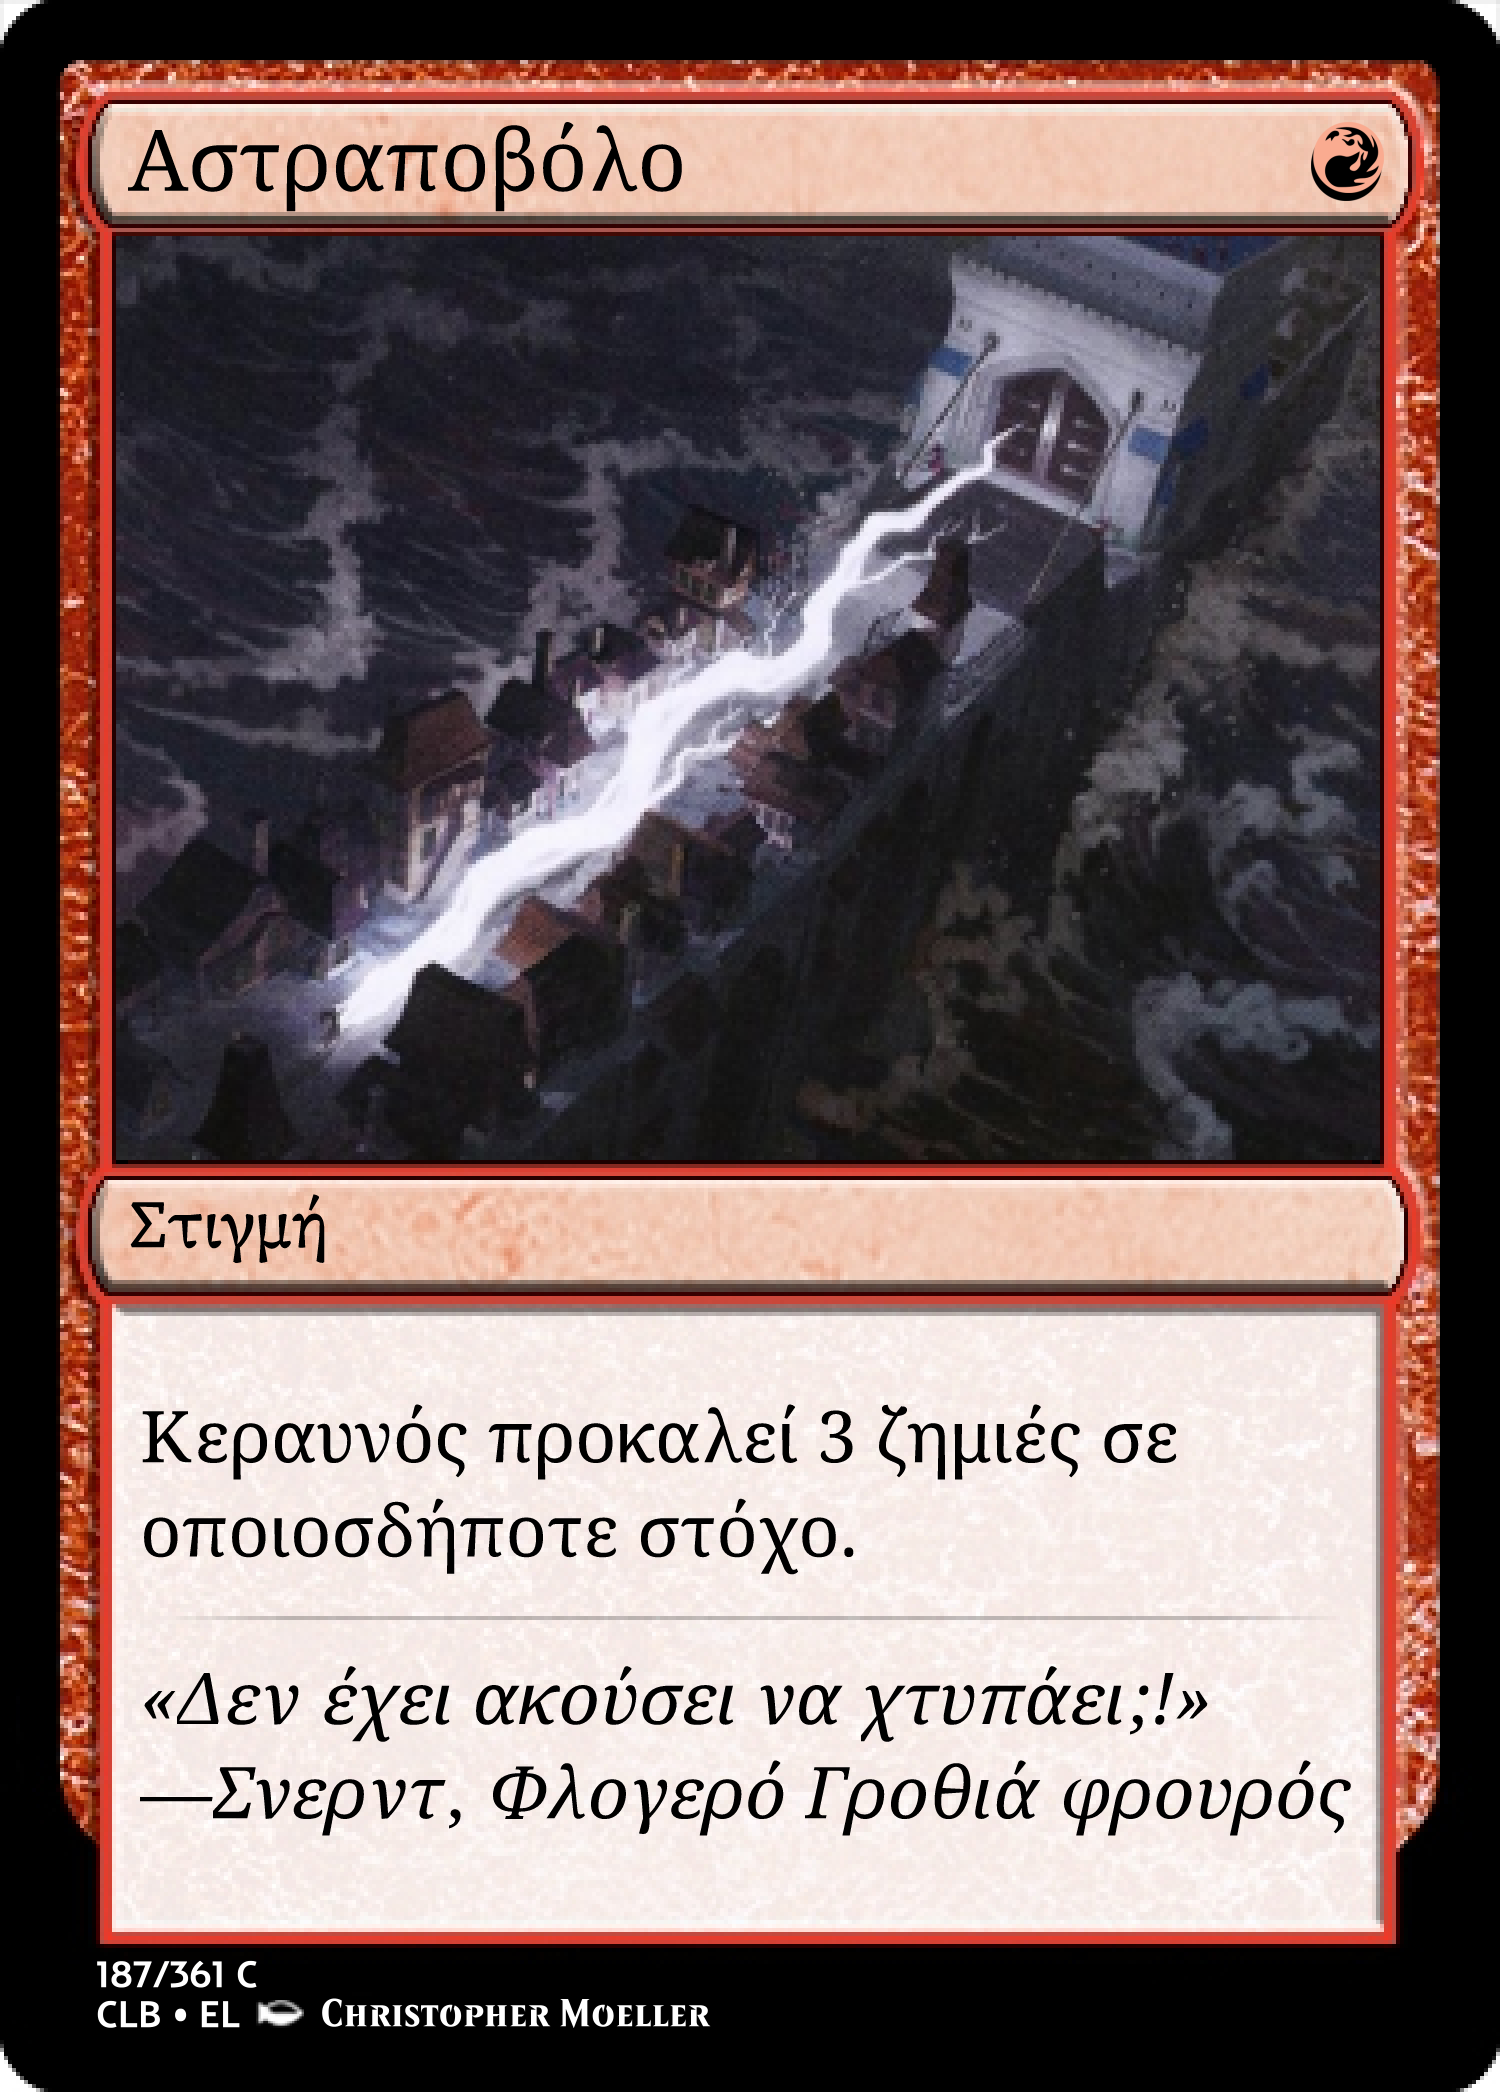
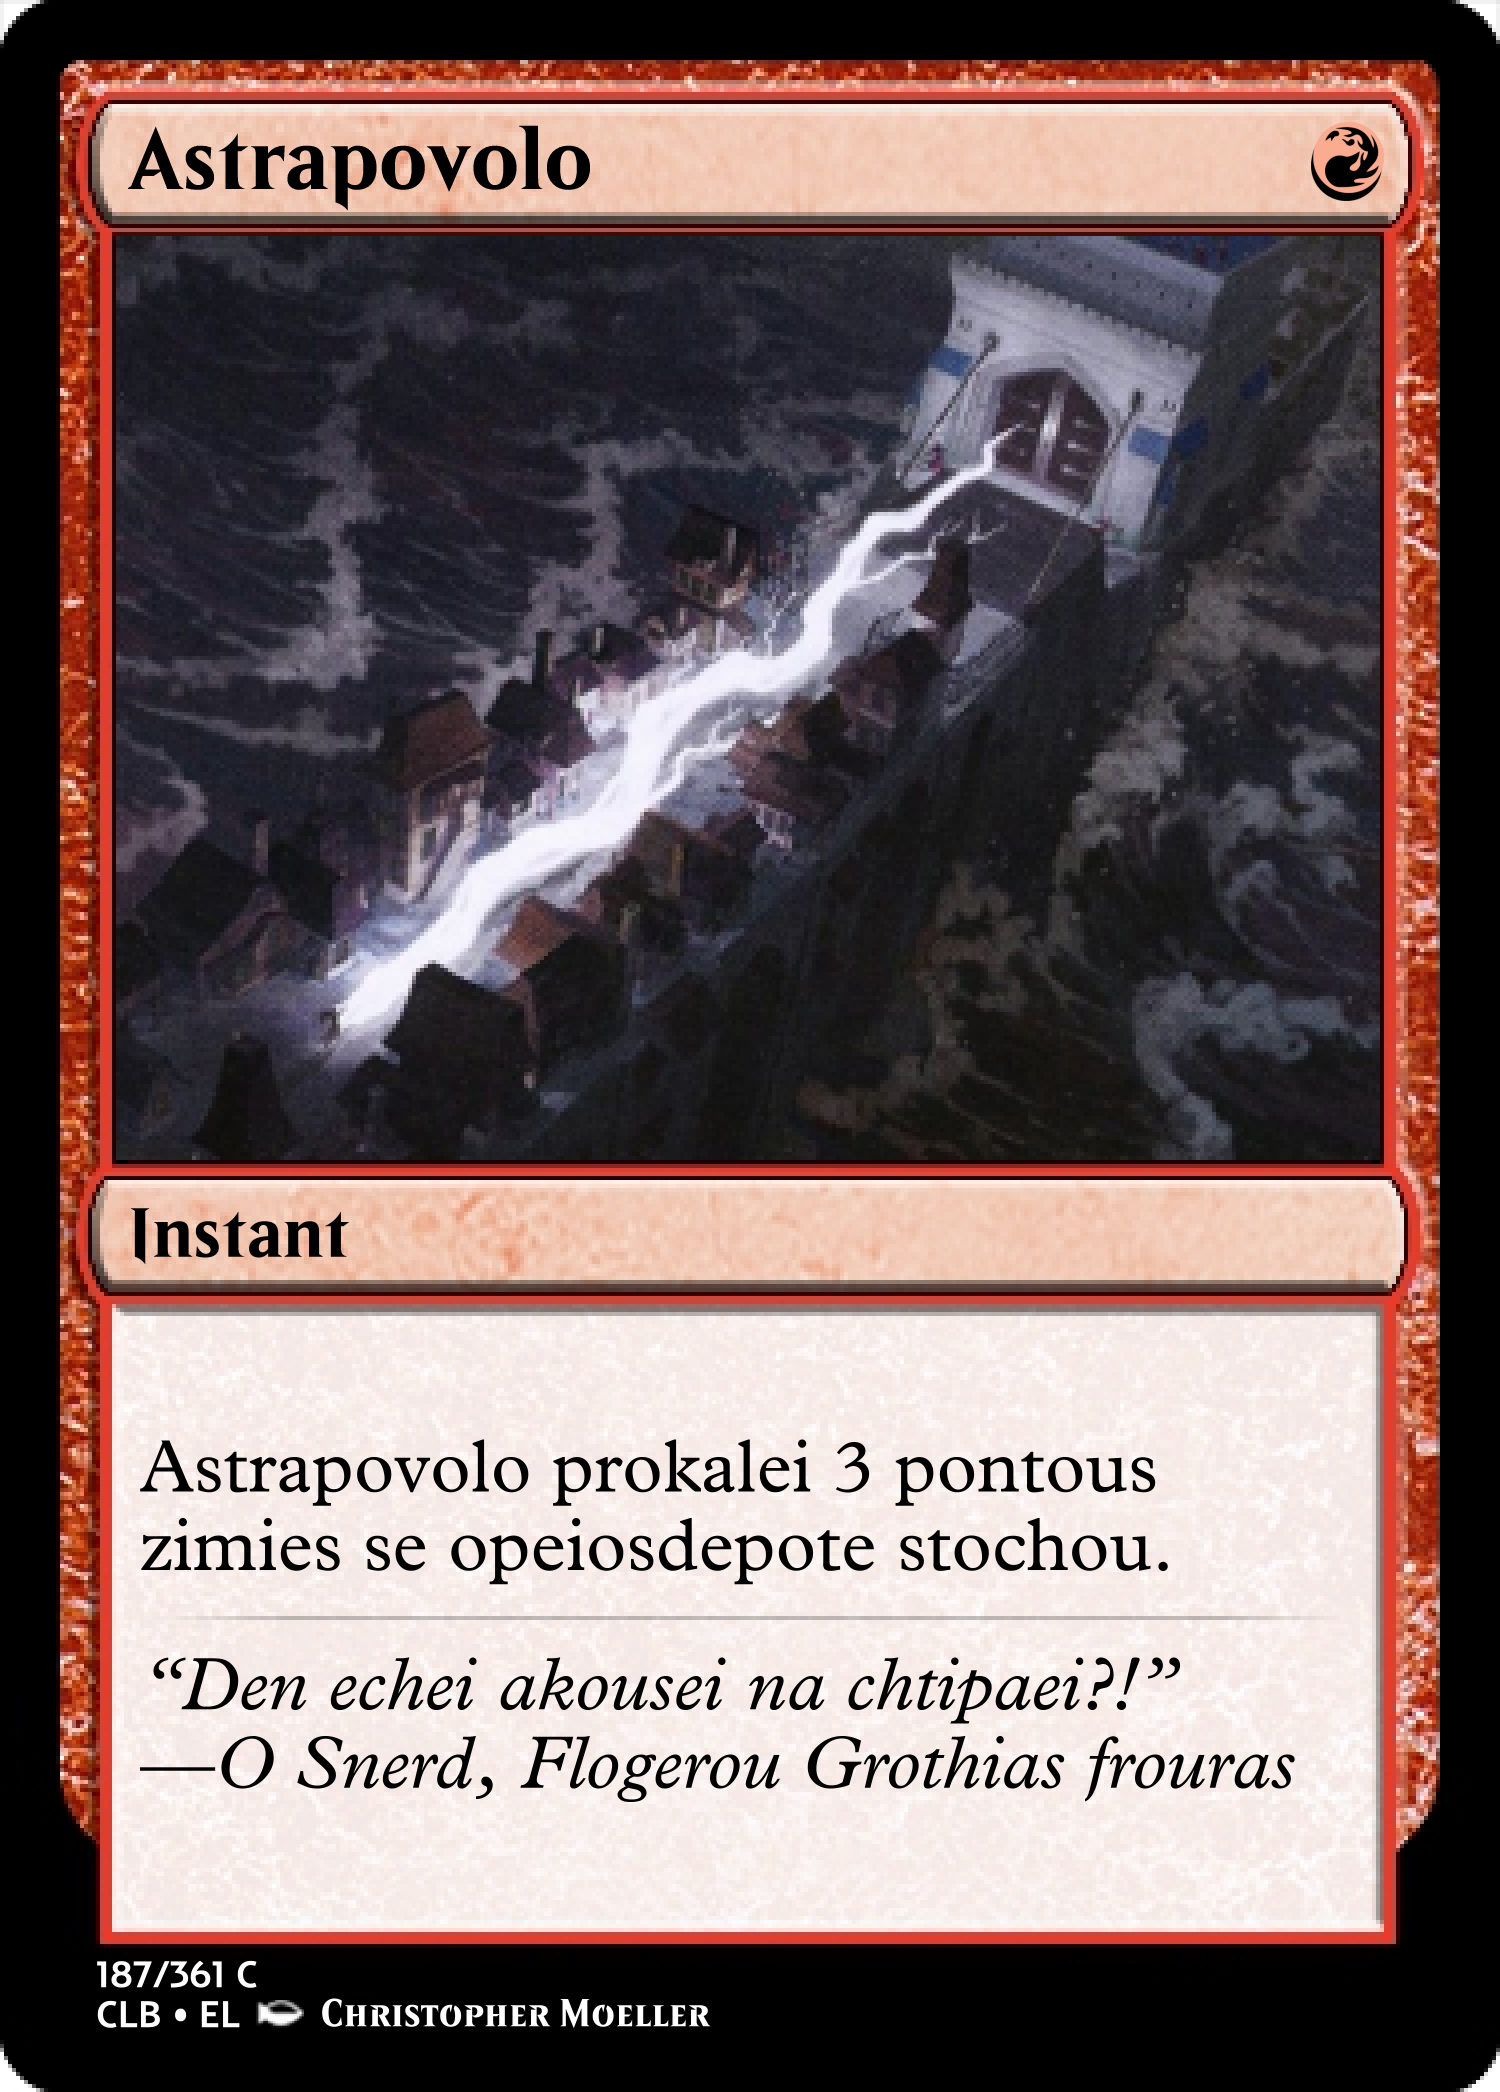
lightning bolt greek

diff --git a/greek/cards/Lightning Bolt.html b/greek/cards/Lightning Bolt.html
@@ -1,0 +1,112 @@
+<!doctype html>
+<html>
+	<head>
+		<link href="https://cdn.jsdelivr.net/npm/bootstrap@5.3.2/dist/css/bootstrap.min.css" rel="stylesheet" integrity="sha384-T3c6CoIi6uLrA9TneNEoa7RxnatzjcDSCmG1MXxSR1GAsXEV/Dwwykc2MPK8M2HN" crossorigin="anonymous">
+		<script src="https://cdn.jsdelivr.net/npm/bootstrap@5.3.2/dist/js/bootstrap.bundle.min.js" integrity="sha384-C6RzsynM9kWDrMNeT87bh95OGNyZPhcTNXj1NW7RuBCsyN/o0jlpcV8Qyq46cDfL" crossorigin="anonymous"></script>
+		<script src="https://code.jquery.com/jquery-3.7.1.min.js"></script>
+		<script src="https://cdnjs.cloudflare.com/ajax/libs/seedrandom/3.0.5/seedrandom.min.js">
+		</script> 
+		<link href="https://cdn.jsdelivr.net/npm/mana-font@latest/css/mana.css" rel="stylesheet" type="text/css" />
+		
+		<link rel="icon" type="image/x-icon" href="../favicon.ico">
+		<link rel="stylesheet" href="../../lojban/style.css">
+		<script src="../data.js"></script>
+		<script>
+			const storyCode = "Lightning Bolt"
+		</script>
+		<script src="../../lojban/main.js" defer></script>
+
+		<title>Lightning Bolt</title>
+		<meta property="og:title" content="Lightning Bolt">
+		<meta property="og:description" content="">
+		<meta property="og:image" content="https://durple3f.github.io/lojban/images/Lightning%20Bolt%203.png">
+	</head>
+	<body>
+		<a href="../index.html" id="back-btn">
+			<button class="btn btn-secondary">Back</button>
+		</a>
+		<div id="draggable">=</div>
+		<div id="explanation-container">
+			<div id="explanation">
+				<div id="explanation-text"></div>
+				<button class="btn btn-secondary show-all" style="display: none;">Show all</button>
+			</div>
+		</div>
+		<div id="views">
+			<div class="row text-center fw-bold">
+				<div class="col">
+					English <button class="toggle-btn">(Hide)</button>
+				</div>
+				<div class="col">
+					Literal Translation <button class="toggle-btn">(Hide)</button>
+				</div>
+				<div class="col">
+					Romanized <button class="toggle-btn">(Hide)</button>
+				</div>
+				<div class="col">
+					Greek <button class="toggle-btn">(Hide)</button>
+				</div>
+			</div>
+			<div class="row">
+				<div class="col">
+					<span class="f1"><span class="f2">Lightning</span> <span class="f3">Bolt</span></span>
+				</div>
+				<div class="col">
+					<span class="f1"><span class="f2">Lightning</span>-<span class="f3">Shot</span></span>
+				</div>
+				<div class="col">
+					<span class="f1"><span class="f2">Astrapo</span><span class="f3">volo</span></span>
+				</div>
+				<div class="col">
+					<span class="f1"><span class="f2">Αστραπο</span><span class="f3">βόλο</span></span>
+				</div>
+			</div>
+			<div class="row">
+				<div class="col">
+					<span class="f1">Lightning Bolt</span> <span class="f4">deals</span> 3 <span class="f5">damage</span> <span class="f6">to</span> <span class="f7">any</span> <span class="f8">target</span>.
+				</div>
+				<div class="col">
+					<span class="f1">Lightning-Shot</span> <span class="f4">causes</span> 3 <span class="f20">points</span> <span class="f5">damage</span> <span class="f6">to</span> <span class="f7">whatever</span> <span class="f8">target</span>.
+				</div>
+				<div class="col">
+					<span class="f1">Astrapovolo</span> <span class="f4">prokalei</span> 3 <span class="f20">pontous</span> <span class="f5">zimies</span> <span class="f6">se</span> <span class="f7">opeiosdepote</span> <span class="f8">stochou</span>.
+				</div>
+				<div class="col">
+					<span class="f1">Αστραποβόλο</span> <span class="f4">προκαλεί</span> 3 <span class="f20">πόντους</span> <span class="f5">ζημιάς</span> <span class="f6">σε</span> <span class="f7">οποιοσδήποτε</span> <span class="f8">στόχου</span>.
+				</div>
+			</div>
+			<div class="row">
+				<div class="col">
+					“<span class="f10">Has</span><span class="f9">n’t</span> <span class="f10">she</span> <span class="f11">heard</span> <span class="f12">of</span> <span class="f13">knocking</span><span class="f14">?</span>!”<br>
+          —<span class="f16">Snerd</span>, <span class="f17">Flaming</span> <span class="f18">Fist</span> <span class="f19">guard</span>
+				</div>
+				<div class="col">
+					“<span class="f9">Not</span> <span class="f10">have they</span> <span class="f11">hear</span> <span class="f12">of</span> <span class="f13">knocking</span><span class="f14">?</span>!”<br>
+          —<span class="f16">Snernt</span>, <span class="f17">Flaming</span> <span class="f18">Fist</span> <span class="f19">guard</span>
+				</div>
+				<div class="col">
+					“<span class="f9">Den</span> <span class="f10">echei</span> <span class="f11">akousei</span> <span class="f12">na</span> <span class="f13">chtipaei</span><span class="f14">?</span>!”<br>
+          —<span class="f15">O</span> <span class="f16">Snerd</span>, <span class="f17">Flogerou</span> <span class="f18">Grothias</span> <span class="f19">frouras</span>
+				</div>
+				<div class="col">
+					«<span class="f9">Δεν</span> <span class="f10">έχει</span> <span class="f11">ακούσει</span> <span class="f12">να</span> <span class="f13">χτυπάει</span><span class="f14">;</span>!»<br>
+          —<span class="f15">Ο</span> <span class="f16">Σνερντ</span>, <span class="f17">Φλογερού</span> <span class="f18">Γροθιάς</span> <span class="f19">φρουράς</span>
+				</div>
+			</div>
+			<div class="row">
+				<div class="col">
+					<img class="mtg-card img-fluid" src="../images/Lightning Bolt 1.png">
+				</div>
+				<div class="col">
+					<img class="mtg-card img-fluid" src="../images/Lightning Bolt 2.png">
+				</div>
+				<div class="col">
+					<img class="mtg-card img-fluid" src="../images/Lightning Bolt 3.png">
+				</div>
+				<div class="col">
+					<img class="mtg-card img-fluid" src="../images/Lightning Bolt 4.png">
+				</div>
+			</div>
+		</div>
+	</body>
+</html>

diff --git a/greek/data.js b/greek/data.js
@@ -1,0 +1,27 @@
+const storyInfo = {
+	"general": {
+		
+	},
+	"Lightning Bolt": {
+		1: "Hey, would you say that naming a card like this is the subject or object of a sentence? What, you don't think this counts as a sentence? Wrong. Greek needs to know. It seems like this should be what they call the 'nominative' case, which is the most common one.",
+		2: "'Astrapí' here means lightning, or flash.",
+		3: "This is actually the same 'bolos' that 'bola' (the weapons that you throw) comes from.",
+		4: "This is a very general word, that could mean all sorts of causal things. I suppose you could also use a word for like 'give'? Isn't it weird how we use the word 'deal' in this context? Why do you give people damage?",
+		5: "I <i>think</i> damage is supposed to be singular here. I have no idea.",
+		6: "Se can mean damn near any kind of 'to' in Greek. In, on, to, at, most conjunctions.",
+		7: "Maybe I'm just missing a better word, but 'whatever' certainly fits the bill.",
+		8: "Apparently this only means 'target' in archery contexts, but 'target' also doesn't mean target in most contexts in English. This word can mean like 'aim' or 'goal' which is... just like English.",
+		9: "Greek just sticks a Δεν in front of anything that ain't.",
+		10: "Greek is very conjugated. The 'έχ' part means 'have' and the 'ει' part means 'it is a singular person who is doing the having'. With nouns, the gender matters, and it would probably be more accurate for me to stick a female pronoun like 'αυτή' after this word.",
+		11: "Hey, look at that, the word for hearing sounds like 'acoustic'.",
+		12: "This is what we in the business call a 'subjunctive'. That's the fun term for clauses-within-sentences like this. This is a pretty simple one, but in English, you see this kind of thing whenever you say \"I wish that <wish goes here.>\" Isn't that weird, that the wish can just be its own whole sentence? \"I wish I were taller.\" In English, we have an entirely new way of conjugating \"be\" to allow those clauses to be less confusing. In Greek, you get to see the \"να\" and figure it out.",
+		13: "I want you to try and say this word. The 'ch' sounds like a cat hissing, and the 'τ' just makes a t sound. So say it, go 'chti-pa-ei'!",
+		14: "I cannot stress enough that the Greek question mark is a FUCKING semicolon. Why?? As best I can tell, we should blame the Salvonic Church in particular.",
+		15: "I <i>believe</i> this attribution here calls for the 'genitive' case, usually used for portraying relationships between things. The quote has a relationship with its speaker, right? Anyway, that means we gotta stick an O in front of Snerd's name. It would be an H if Snerd were a girl, and maybe they are, but O is the default.",
+		16: "I want to really draw your attention to the fact that this ends with an 'ντ'. In Modern Greek, the δ only makes a very soft d sound, closer to the 'th' in 'the'. So our good buddy Snerd here, with a hard d at the end of their name, must simply be okay being called Snernt. How sad. Fun fact, in Greek, 'Avocado' is basically spelled 'Abokanto' for the same reason. It uses a beta! But not a delta!",
+		17: "I am <i>very</i> not confident about my usage of this word. Is it okay to use this as an adjective? Probably. What about as only a <i>piece</i> of an adjective that's being used as an epithet? I dunno! I assume that the capital letter makes it pretty clear this is a proper noun!",
+		18: "This one is even weirder! It's a <i>noun</i>! Like, morphologically! I'm really hoping it's fine to just stick a noun in front of a noun like this. All the examples I can find are things that make a lot more sense as adjectives, like leather or wool, but are also used as nouns.",
+		19: "This one I'm pretty confident with. Sure, I accidentally ended up using the ancient greek version of the word for half of this project, but I figured it out.",
+		20: "I'm really unsure whether this language is OK with you just saying it deals 3 of 'a concept' to something. Gonna play it safe."
+	}
+}
